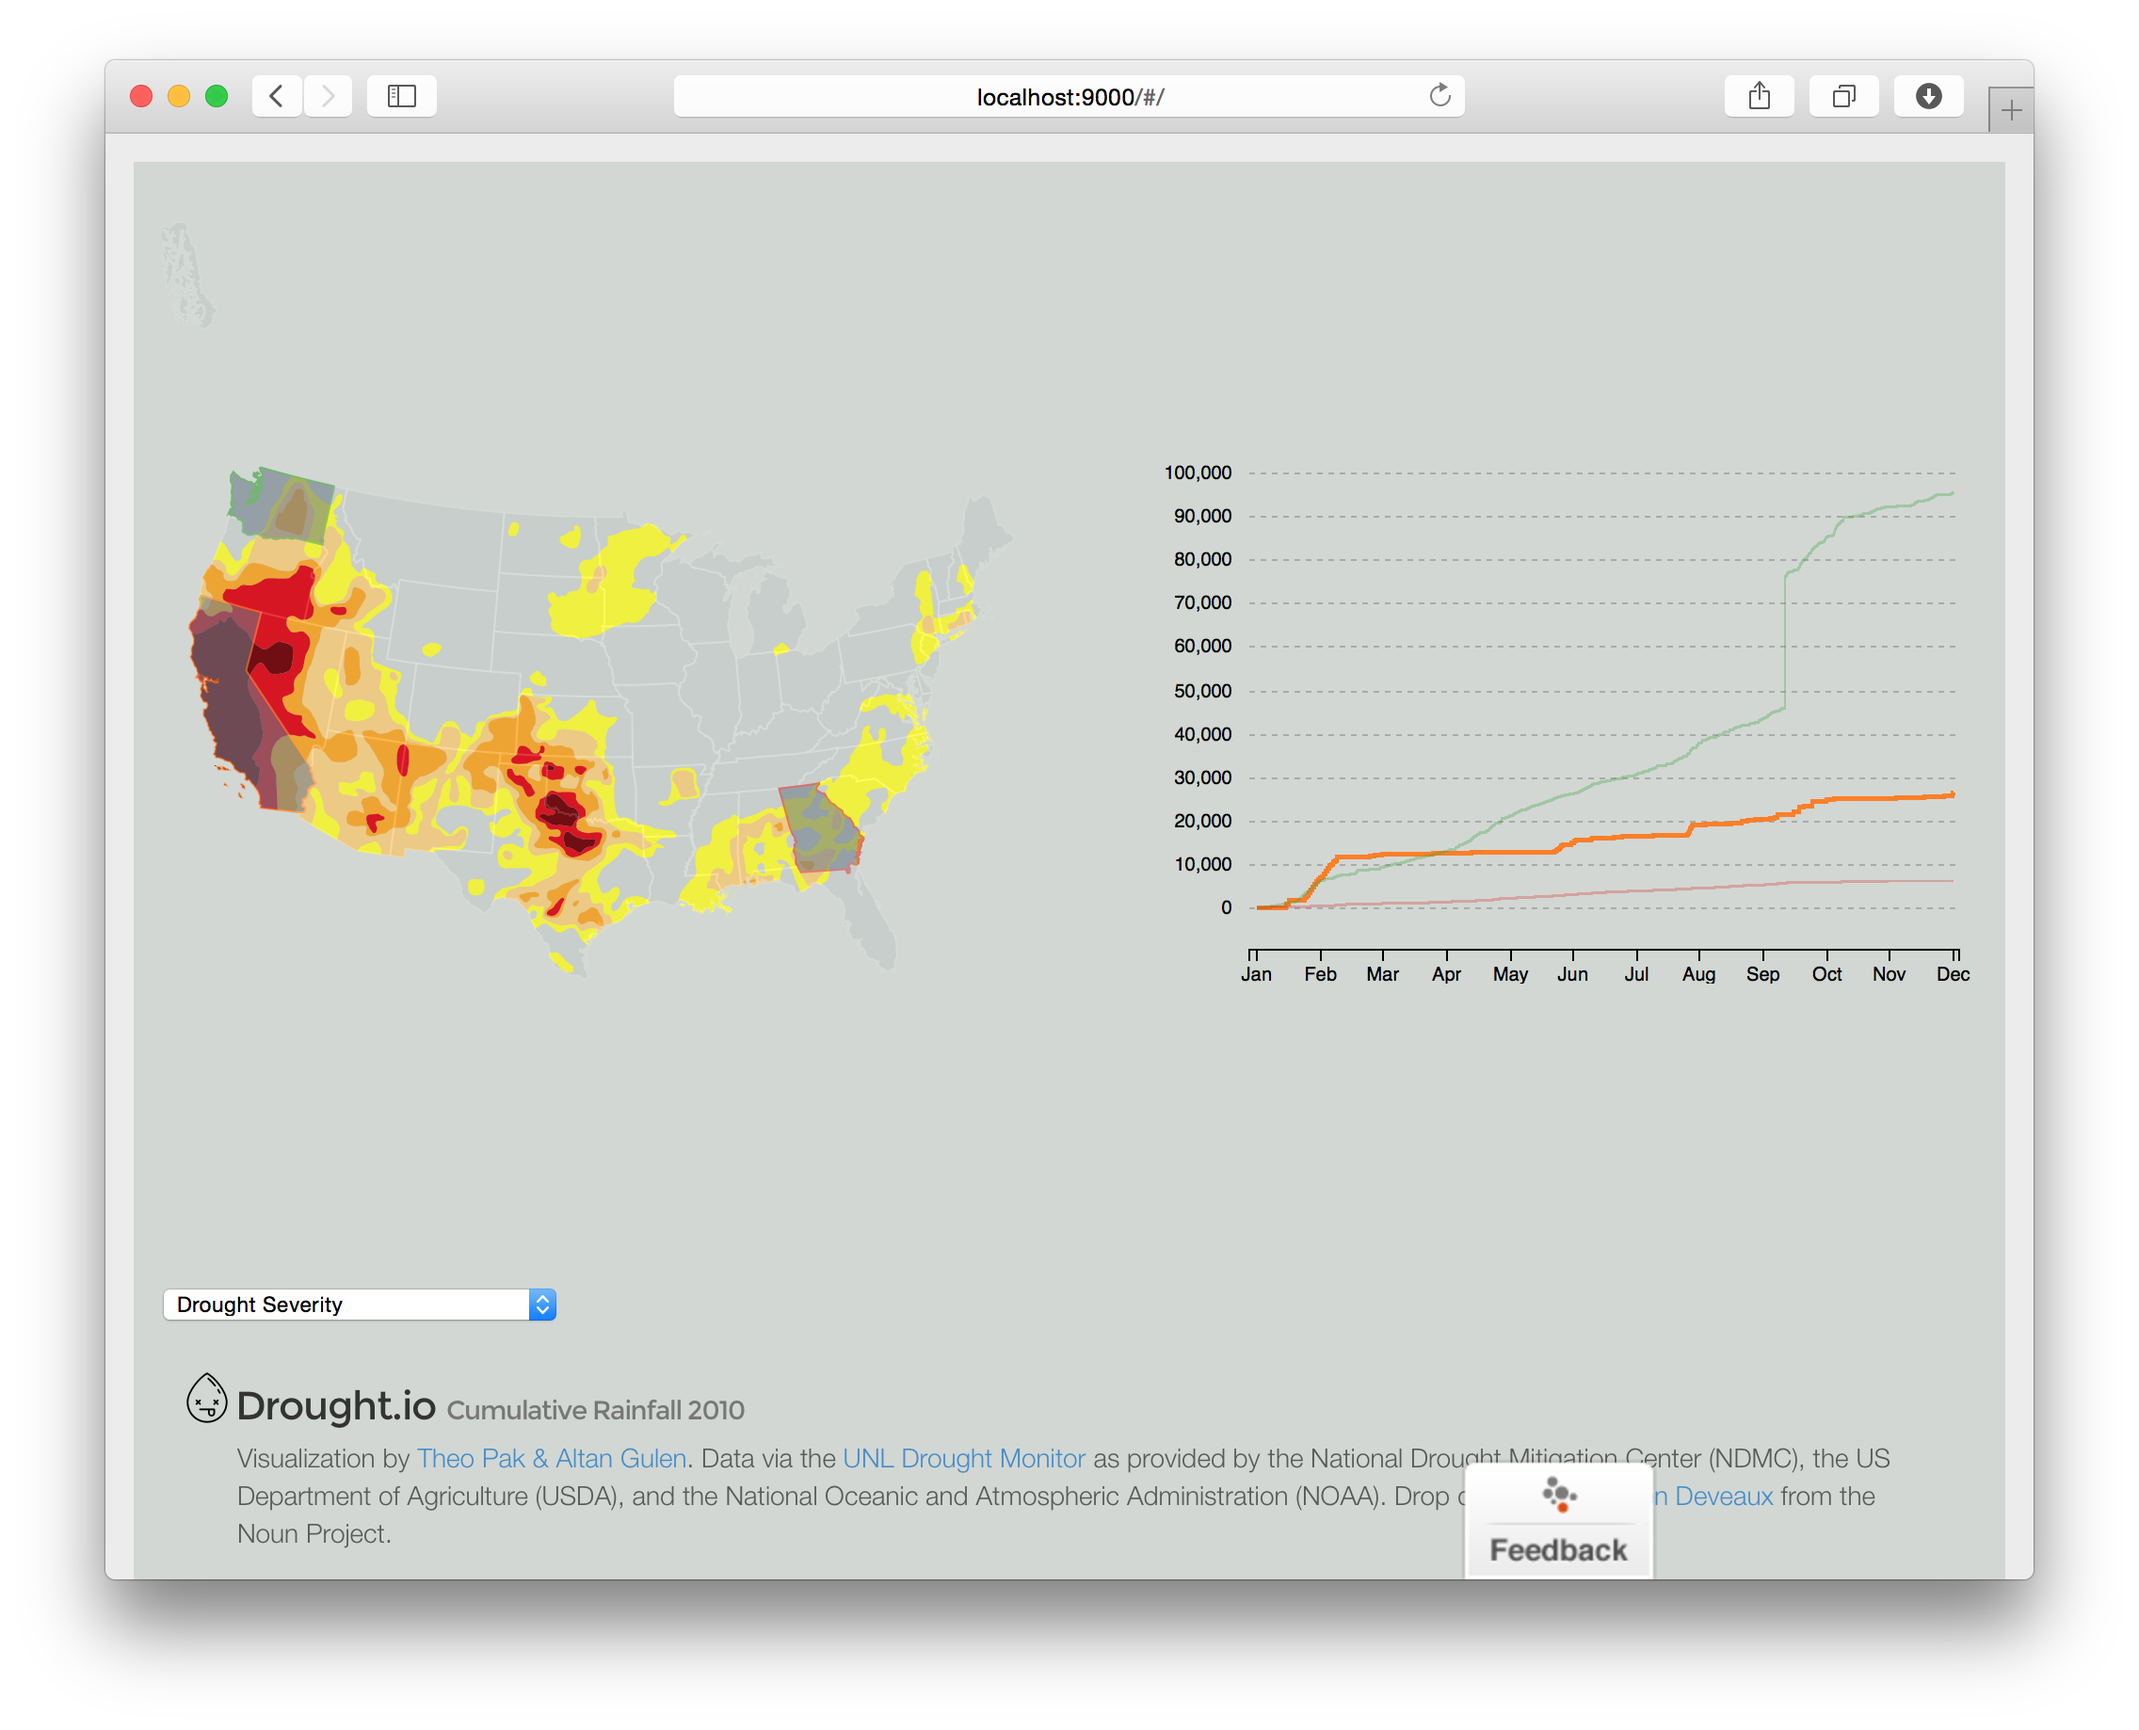
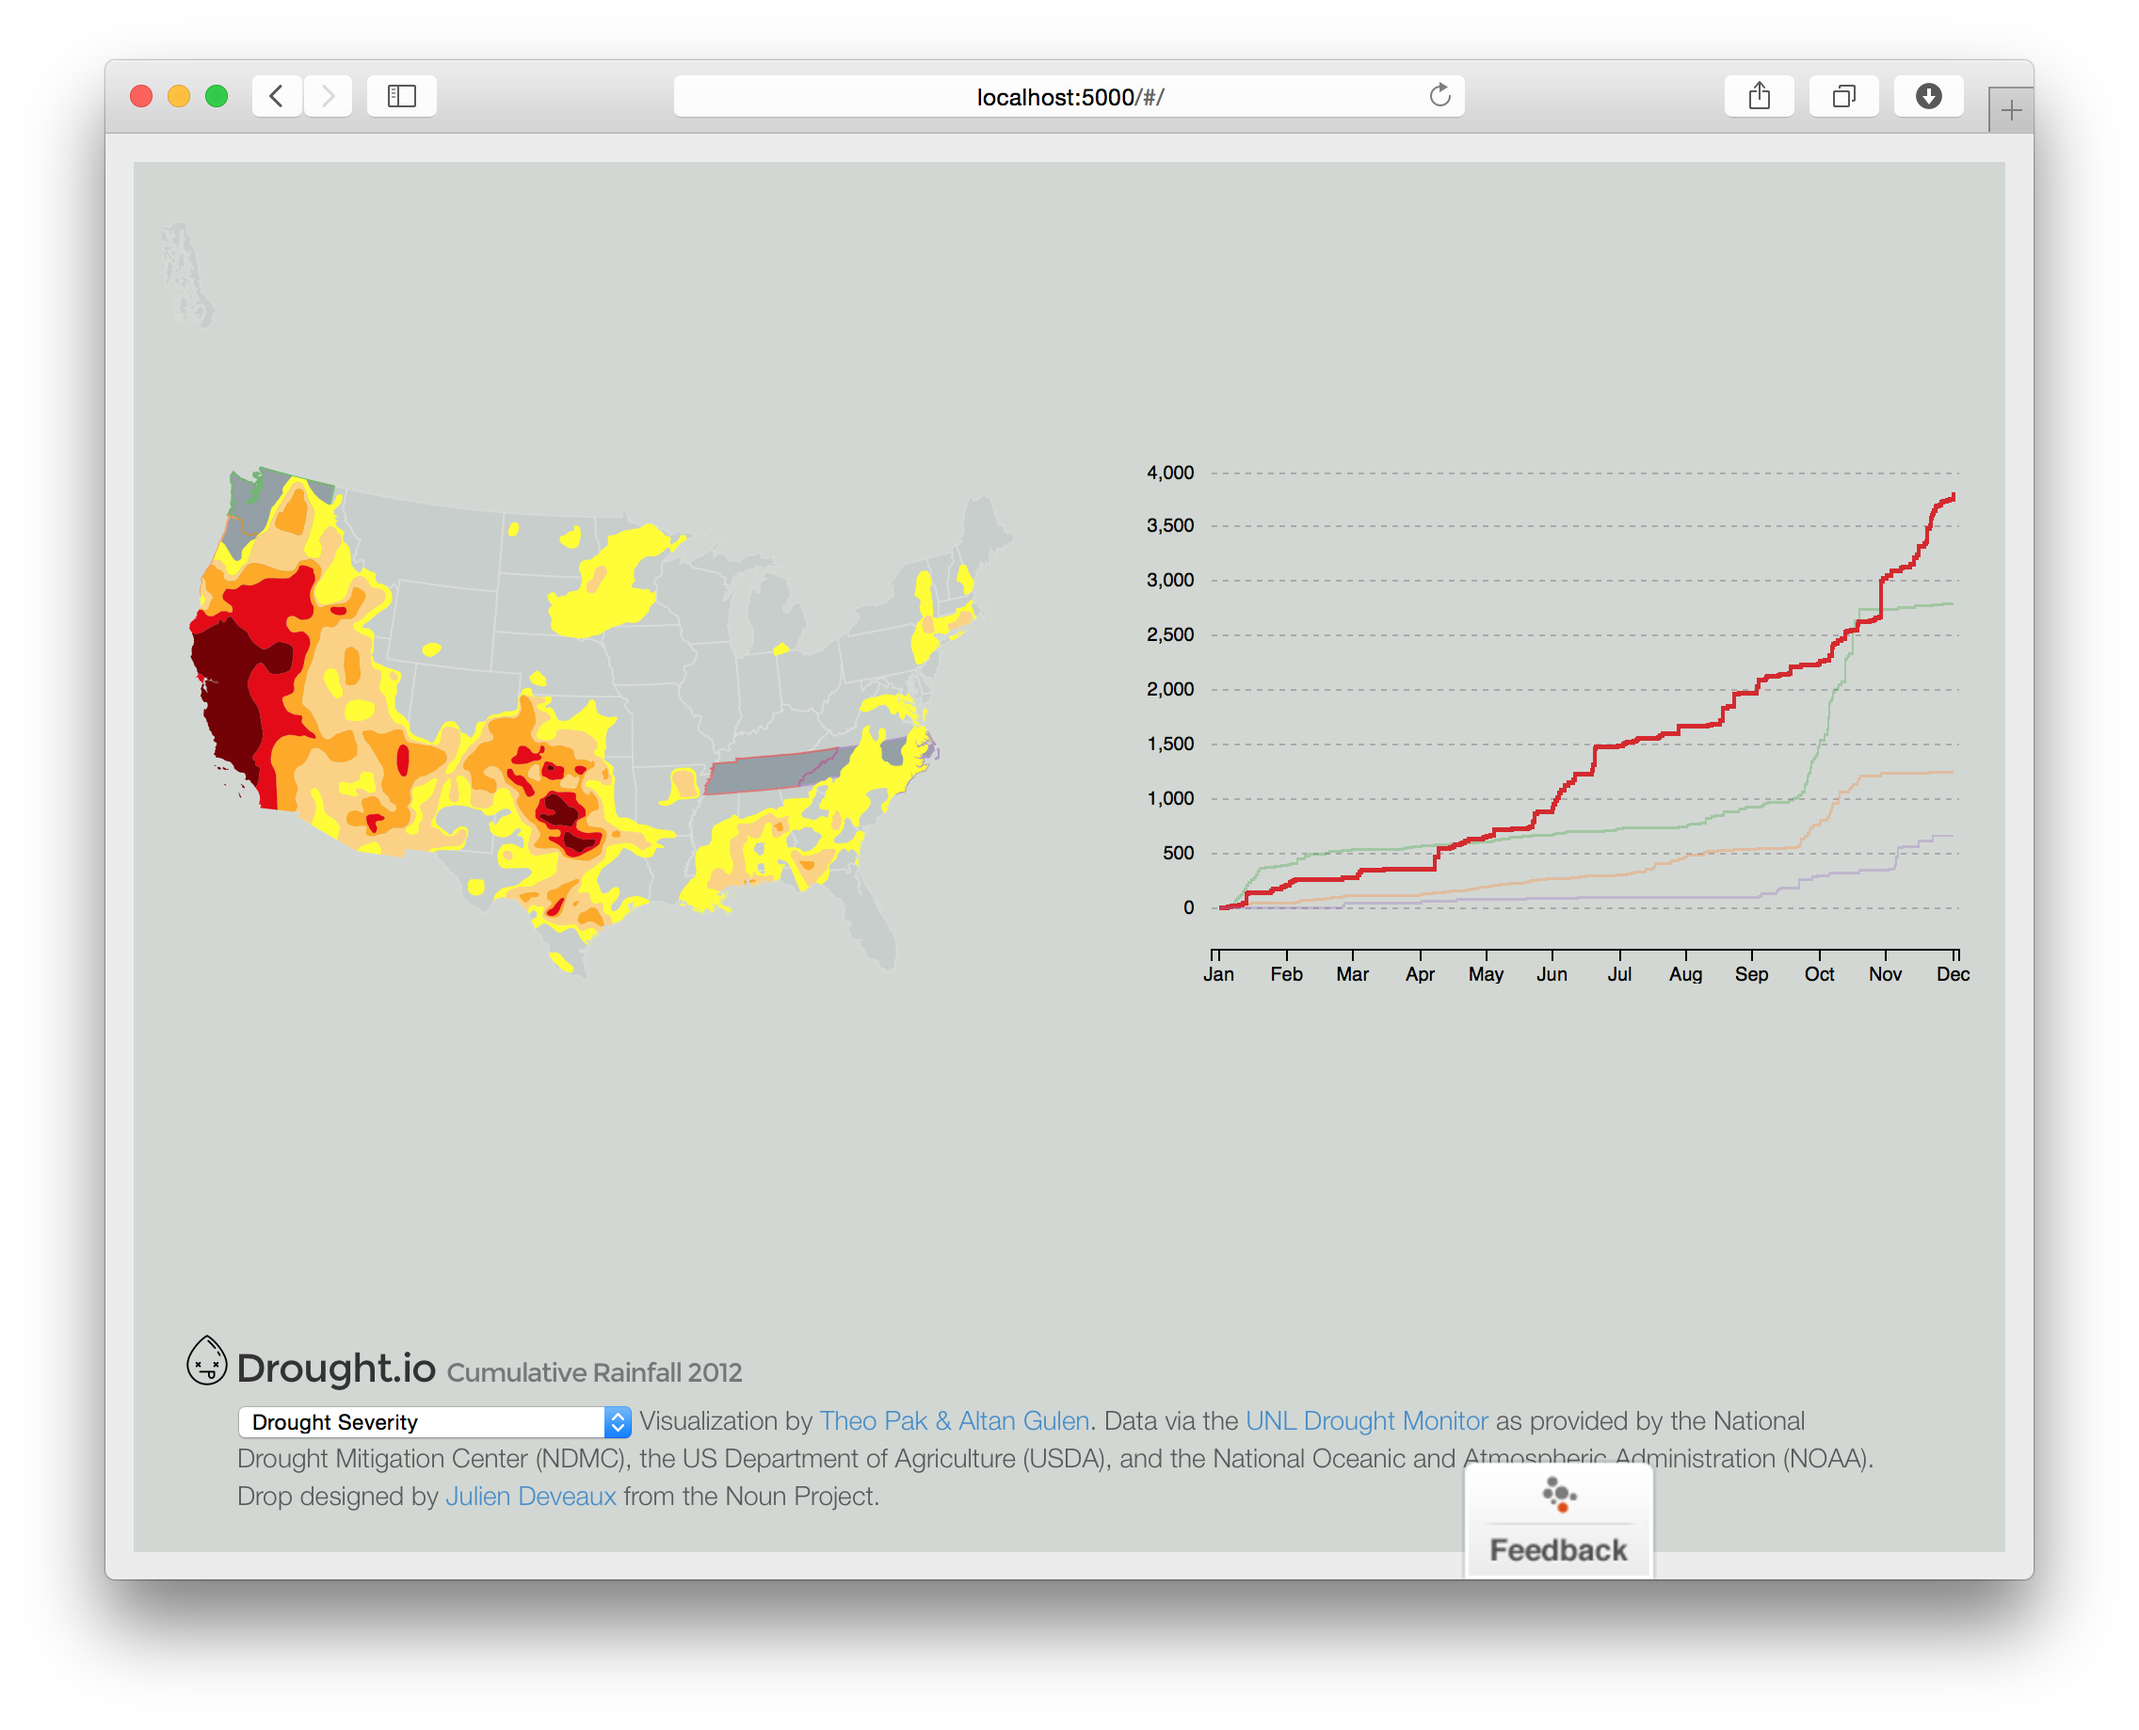
fixes invalid HTML, builds, updates screenshot.

diff --git a/dist/views/main.html b/dist/views/main.html
@@ -1,1 +1,1 @@
-<div class="container-fluid"> <div class="row"> <div class="col-lg-5 col-md-6 col-md-push-6 col-sm-12"> <div id="chart"></div> </div> <div class="col-lg-5 col-lg-pull-4 col-md-6 col-md-pull-6 col-sm-12"> <div id="map" drought-map selection-queue="selectionQueue"></div> </div> </div> <div class="row"> <div class="container-fluid"> <div class="form-field"> <select ng-options="layerToggle.name for layerToggle in layerToggles" ng-model="index" ng-init="index = layerToggles[0]"> </div> </div> </div> </div> <div id="navbar"> <div class="container-fluid"> <div class="row"> <div class="col-lg-10 col-lg-push-1 col-sm-12"> <h1 class="brand">Drought.io <small>Cumulative Rainfall {{year}}</small></h1> <p>Visualization by <a href="https://github.com/theopak/drought.io/">Theo&nbsp;Pak &amp; Altan&nbsp;Gulen</a>. Data via the <a href="http://droughtmonitor.unl.edu/MapsAndData/GISData.aspx">UNL Drought Monitor</a><span class="hidden-xs"> as provided by the National Drought Mitigation Center (NDMC), the US Department of Agriculture (USDA), and the National Oceanic and Atmospheric Administration (NOAA)</span>. <span class="hidden-sm">Drop designed by <a href="http://thenounproject.com/term/drop/48086/">Julien&nbsp;Deveaux</a> from the Noun Project.</span></p> </div> </div> </div> </div>
+<div class="container-fluid"> <div class="row"> <div class="col-lg-5 col-md-6 col-md-push-6 col-sm-12"> <div id="chart"></div> </div> <div class="col-lg-5 col-lg-pull-4 col-md-6 col-md-pull-6 col-sm-12"> <div id="map" drought-map selection-queue="selectionQueue"></div> </div> </div> </div>  <div id="navbar"> <div class="container-fluid"> <div class="row"> <div class="col-lg-10 col-lg-push-1 col-sm-12"> <h1 class="brand">Drought.io <small>Cumulative Rainfall {{year}}</small></h1> <p><select ng-options="layerToggle.name for layerToggle in layerToggles" ng-model="index" ng-init="index = layerToggles[0]"></select> Visualization by <a href="https://github.com/theopak/drought.io/">Theo&nbsp;Pak &amp; Altan&nbsp;Gulen</a>. Data via the <a href="http://droughtmonitor.unl.edu/MapsAndData/GISData.aspx">UNL Drought Monitor</a><span class="hidden-xs"> as provided by the National Drought Mitigation Center (NDMC), the US Department of Agriculture (USDA), and the National Oceanic and Atmospheric Administration (NOAA)</span>. <span class="hidden-sm">Drop designed by <a href="http://thenounproject.com/term/drop/48086/">Julien&nbsp;Deveaux</a> from the Noun Project.</span></p> </div> </div> </div> </div>

diff --git a/app/views/main.html b/app/views/main.html
@@ -7,12 +7,6 @@
       <div id="map" drought-map selection-queue="selectionQueue"></div>
     </div>
   </div>
-  <div class="row">
-    <div class="container-fluid">
-      <div class="form-field">
-        <select ng-options="layerToggle.name for layerToggle in layerToggles" ng-model="index" ng-init="index = layerToggles[0]"/>
-      </div>
-    </div>
   </div>
 </div>
 
@@ -21,7 +15,7 @@
     <div class="row">
       <div class="col-lg-10 col-lg-push-1 col-sm-12">
         <h1 class="brand">Drought.io <small>Cumulative Rainfall {{year}}</small></h1>
-        <p>Visualization by <a href="https://github.com/theopak/drought.io/">Theo&nbsp;Pak &amp; Altan&nbsp;Gulen</a>. Data via the <a href="http://droughtmonitor.unl.edu/MapsAndData/GISData.aspx">UNL Drought Monitor</a><span class="hidden-xs"> as provided by the National Drought Mitigation Center (NDMC), the US Department of Agriculture (USDA), and the National Oceanic and Atmospheric Administration (NOAA)</span>. <span class="hidden-sm">Drop designed by <a href="http://thenounproject.com/term/drop/48086/">Julien&nbsp;Deveaux</a> from the Noun Project.</span></p>
+        <p><select ng-options="layerToggle.name for layerToggle in layerToggles" ng-model="index" ng-init="index = layerToggles[0]" ></select> Visualization by <a href="https://github.com/theopak/drought.io/">Theo&nbsp;Pak &amp; Altan&nbsp;Gulen</a>. Data via the <a href="http://droughtmonitor.unl.edu/MapsAndData/GISData.aspx">UNL Drought Monitor</a><span class="hidden-xs"> as provided by the National Drought Mitigation Center (NDMC), the US Department of Agriculture (USDA), and the National Oceanic and Atmospheric Administration (NOAA)</span>. <span class="hidden-sm">Drop designed by <a href="http://thenounproject.com/term/drop/48086/">Julien&nbsp;Deveaux</a> from the Noun Project.</span></p>
       </div>
     </div>
   </div>
